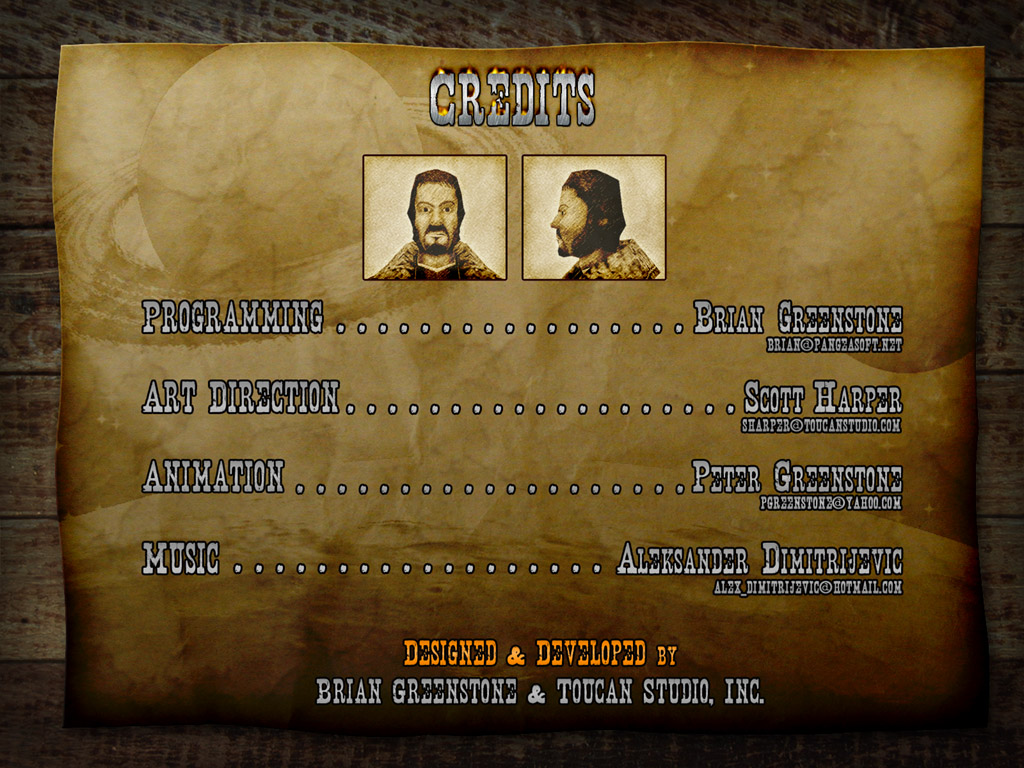
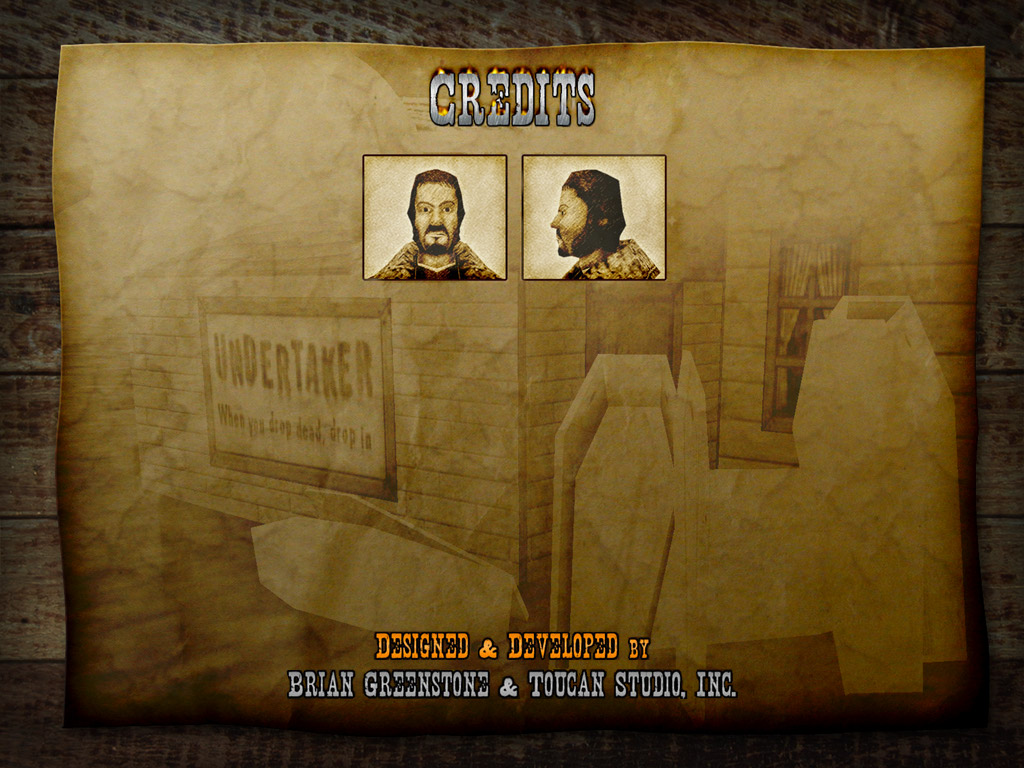
New credits

diff --git a/Source/Screens/MainMenu.c b/Source/Screens/MainMenu.c
@@ -22,6 +22,7 @@ static void ProcessMainMenu(void);
 static void DoMenuControls(void);
 static void MoveCursor(ObjNode *theNode);
 static void MoveMenuItem(ObjNode *theNode);
+static const char* DotConcat(const char* prefix, const char* suffix, float targetWidth);
 
 
 /****************************/
@@ -115,6 +116,17 @@ do_again:
 
 	if (gShowCredits)
 	{
+		NewObjectDefinitionType def =
+		{
+			.coord = {320, 180, 0},
+			.scale = 28,
+			.slot = SPRITE_SLOT
+		};
+		def.coord.y += 33; MakeFontStringObject(DotConcat("programming", "Brian Greenstone", 16), &def, true);
+		def.coord.y += 33; MakeFontStringObject(DotConcat("art direction", "Scott Harper", 16), &def, true);
+		def.coord.y += 33; MakeFontStringObject(DotConcat("animation", "Peter Greenstone", 16), &def, true);
+		def.coord.y += 33; MakeFontStringObject(DotConcat("music", "Aleksander Dimitrijevic", 16), &def, true);
+		def.coord.y += 33; MakeFontStringObject(DotConcat("modern version", "Iliyas Jorio", 16), &def, true);
 		DisplayPicture(":images:Credits.jpg");
 		goto do_again;
 	}
@@ -309,17 +321,15 @@ static void BuildMainMenu_Root(void)
 	}
 }
 
-static const char* DotConcat(const char* prefix, const char* suffix)
+static const char* DotConcat(const char* prefix, const char* suffix, float targetWidth)
 {
-	const float kTargetWidth = 13.0f;
 	static char buf[64];
 
 	memset(buf, 0, sizeof(buf));		// clear with 0s
 
 	float width = GetStringWidth(prefix, 1) + GetStringWidth(suffix, 1);
 
-	float dotWidth = GetStringWidth(".", 1);
-	float spaceWidth = GetStringWidth(" ", 1);
+	float dotWidth = GetCharSpacing('.', 1);
 
 	int cursor = snprintf(buf, sizeof(buf), "%s", prefix);
 	if (cursor < 0)
@@ -327,26 +337,14 @@ static const char* DotConcat(const char* prefix, const char* suffix)
 
 	bool flipflop = false;
 
-	while (width < kTargetWidth
-		&& cursor < sizeof(buf)-1)		// -1 for nul terminator
+	while (width < targetWidth
+		&& cursor < sizeof(buf) - 1)		// -1 for nul terminator
 	{
-		if (flipflop)
-		{
-			if (width + dotWidth/2.0f >= kTargetWidth)
-				break;
+		if (width + dotWidth * 0.4f > targetWidth)		// * 0.4 for some tolerance
+			break;
 
-			buf[cursor++] = '.';
-			width += dotWidth;
-		}
-		else
-		{
-			if (width + spaceWidth/2.0f >= kTargetWidth)
-				break;
-
-			buf[cursor++] = ' ';
-			width += spaceWidth;
-		}
-
+		buf[cursor++] = flipflop ? '.' : '\t';
+		width += dotWidth;
 		flipflop = !flipflop;
 	}
 
@@ -357,6 +355,7 @@ fail:
 
 static void BuildMainMenu_Settings(void)
 {
+	const char TW = 13;
 	char suffix[32];
 
 	for (int i = 0; i < kSettingsMenu_COUNT; i++)
@@ -367,12 +366,12 @@ static void BuildMainMenu_Settings(void)
 		switch (i)
 		{
 		case kSettingsMenu_Fullscreen:
-			name = DotConcat("FULLSCREEN", gGamePrefs.fullscreen ? "YES" : "NO");
+			name = DotConcat("FULLSCREEN", gGamePrefs.fullscreen ? "YES" : "NO", TW);
 			break;
 
 		case kSettingsMenu_Display:
 			snprintf(suffix, sizeof(suffix), "%d", gGamePrefs.monitorNum + 1);
-			name = DotConcat("DISPLAY", suffix);
+			name = DotConcat("DISPLAY", suffix, TW);
 			break;
 
 		case kSettingsMenu_Antialiasing:
@@ -380,7 +379,7 @@ static void BuildMainMenu_Settings(void)
 				snprintf(suffix, sizeof(suffix), "OFF");
 			else
 				snprintf(suffix, sizeof(suffix), "MSAA %dx", 1 << gGamePrefs.antialiasingLevel);
-			name = DotConcat("ANTIALIASING", suffix);
+			name = DotConcat("ANTIALIASING", suffix, TW);
 			break;
 
 		case kSettingsMenu_ResetHighScores:
@@ -488,10 +487,10 @@ static void BuildMainMenu_SavedGames(void)
 		}
 		else
 		{
-			snprintf(suffix, sizeof(suffix), "%05dpts. . . %02d%%", scratch.score, completionPercent);
+			snprintf(suffix, sizeof(suffix), "%5dpts\t.\t.\t.\t%2d%%", scratch.score, completionPercent);
 		}
 
-		NewMenuItem(i, DotConcat(prefix, suffix));
+		NewMenuItem(i, DotConcat(prefix, suffix, 13));
 	}
 
 	NewMenuItem(i++, "");

diff --git a/Source/3D/Sprites.c b/Source/3D/Sprites.c
@@ -765,6 +765,7 @@ float	s;
 		case	',':
 		case	'!':
 		case	kMacRoman_iexcl:
+		case	'\t':				// actually a narrow space, not a tab; used in DotConcat, must be same width as period
 				s = .25;
 				break;
 
@@ -785,7 +786,6 @@ float	s;
 		case	't':
 		case	'r':
 		case	'j':
-		case	'9':
 		case	kMacRoman_auml:
 		case	'a':
 		case	kMacRoman_aacute:
@@ -825,6 +825,7 @@ float	s;
 		case	'6':
 		case	'7':
 		case	'8':
+		case	'9':
 		case	'S':
 				s = .4f;
 				break;
